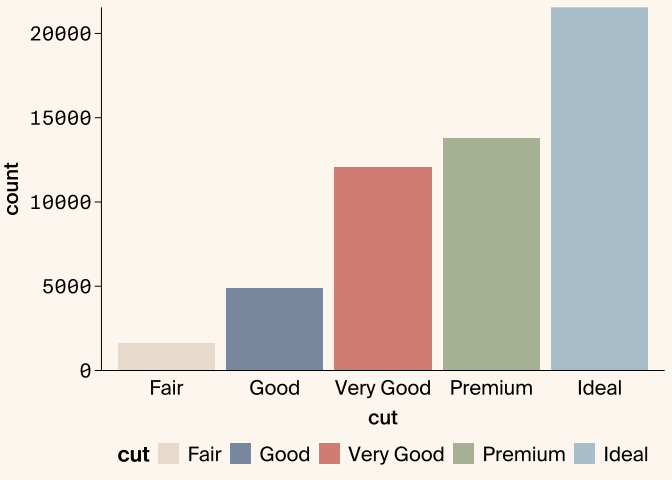
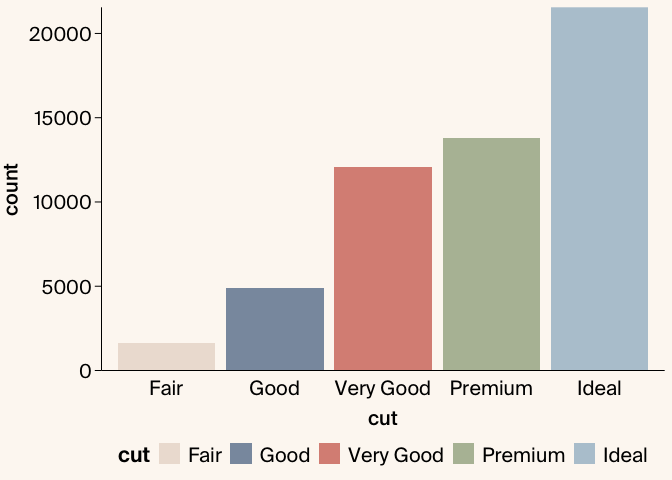
fixed font loading to embed fonts in PDF (works locally), changed approach to load the fonts onAttach instead of called everytime the theme function is called

diff --git a/README.md b/README.md
@@ -32,6 +32,8 @@ and color palettes in the same fashion as the `ggthemes` package.
 ``` r
 library(ggplot2)
 library(arcadiathemeR)
+#> Loading Suisse fonts...
+#> All custom fonts 'Suisse Int'l, Suisse Int'l Semi Bold, Suisse Int'l Medium' are successfully loaded.
 
 ggplot(data=mtcars, aes(x=hp, y=mpg, color=as.factor(cyl))) +
   geom_point(size=2.5) +
